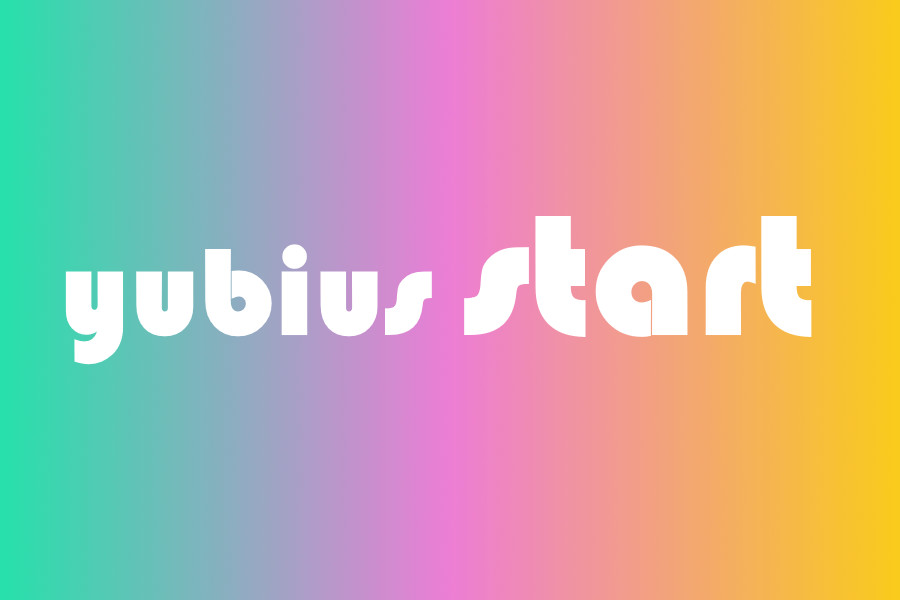
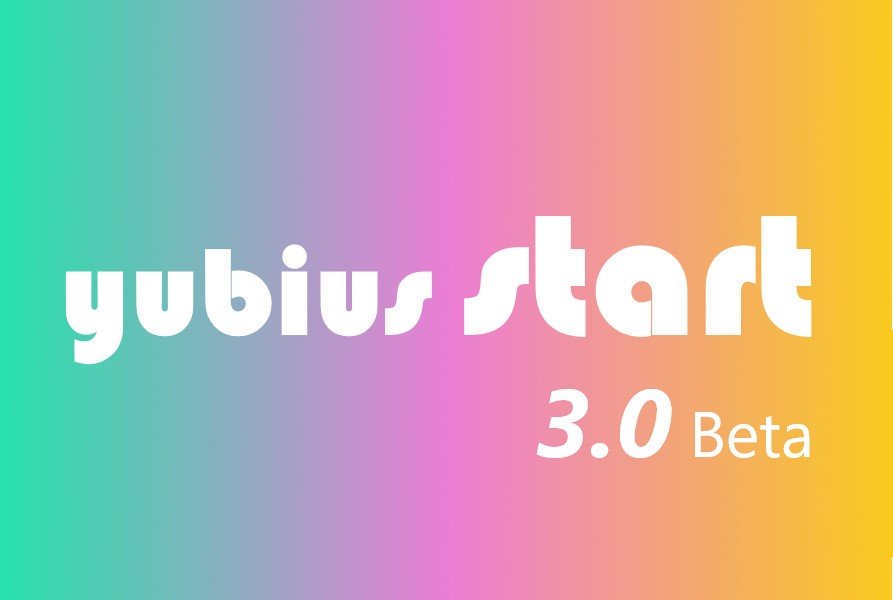
Add files via upload

diff --git a/mobile.html b/mobile.html
@@ -3,7 +3,7 @@
 <head>
     <meta charset="UTF-8">
     <meta name="viewport" content="width=device-width, initial-scale=1.0">
-    <title>奇趣起始页</title>
+    <title>布斯起始页</title>
     <link rel="icon" href="static/icon.png" sizes="192x192"/>
     <link rel="stylesheet" href="https://cdn.jsdelivr.net/gh/Dreamer-Paul/Kico-Style/kico.css">
     <link rel="stylesheet" href="https://at.alicdn.com/t/font_1809713_rg58vy6eb7.css">
@@ -37,29 +37,30 @@
     <section class="navi-background"></section>
 </main>
 <footer>
-    <p>© 2020 <a href="https://paul.ren" target="_blank">奇趣保罗</a> | <a href="https://github.com/Dreamer-Paul/KStart" target="_blank">参与维护</a></p>
+    <p>© 2021 <a href="https://space.bilibili.com/18853927" target="_blank">是鱼布斯啊</a>  <a href="https://jq.qq.com/?_wv=1027&k=rU9gu8El" target="_blank">加入QQ群</a></p>
 </footer>
 <window>
     <section class="the-window updated">
         <div class="window-head">
             <button>×</button>
-            <h3>导航更新啦</h3>
+            <h3>厚积薄发，焕然一新</h3>
         </div>
         <div class="window-body">
             <article>
-                <p>感谢你的使用和支持！在这个版本中，我首次增加了大版本更新机制，每次的更新内容都将会在这里告诉大家，哈哈！</p>
+                <p>感谢你的使用和支持！在这个版本中，我们适配了不同尺寸的设备，哈哈！</p>
                 <blockquote>PS：只有首次打开最新版本才会出现这样的提示哦！</blockquote>
                 <h3>本次更新：</h3>
                 <ul>
-                    <li>增加站点及图标，图标变得更大了！</li>
-                    <li>完善必应壁纸适应后变更字体颜色的设定！</li>
+                    <li>手机访问自动跳转到移动版！</li>
+                    <li>支持必应每日壁纸！</li>
                     <li>所有链接均以新标签的方式打开！</li>
                     <li>增加了如你所看到的更新提示！</li>
                 </ul>
                 <h3>更新预告：</h3>
                 <ul>
-                    <li>更舒适的自定义站点列表体验</li>
-                    <li>可供设定你的壁纸（本地或外链）</li>
+                    <li>电脑版即将默认访问此界面</li>
+                    <li>天气查看小组件</li>
+                    <li>与电脑版相同的欲言</li>
                 </ul>
             </article>
         </div>
@@ -72,10 +73,8 @@
         <div class="window-body">
             <article>
                 <p><img src="static/about.jpg" alt="关于奇趣起始页"></p>
-                <p>欢迎使用奇趣起始页！本项目建设于 2020/5/9，是一个主打社区形式的开源项目。</p>
-                <p>它的使用方式很简单，只需要在 <a href="https://github.com/Dreamer-Paul/KStart-Sites" target="_blank">本项目的仓库</a> 上提交 PR，即可创造一个属于自己的导航页面。访问它只需要一个 URL 后缀即可直达，无需注册和登录，非常方便易用。</p>
-                <p>现有的类似站点已经很多了，为什么我仍然选择编写了这个项目？这是因为它们都是闭源的私人项目，只有作者本人才可以进行维护。</p>
-                <p>与此同时，这些站点的导航项大多已经预设。想要修改它们，要么需要注册后修改，要么就干脆不给改，个人觉得略显鸡肋。如果你更换了电脑，不就需要重新登录了吗？</p>
+                <p>欢迎使用布斯起始页！本项目建设于 2020/2/21，是一个基于开源项目维护的网站。</p>
+                <p>您可以请求我们添加您的个人首页，或公共站点 <a href="https://jq.qq.com/?_wv=1027&k=rU9gu8El" target="_blank">本项目的QQ群</a> 上提交联系群主提交</p>
                 <p>介于采用 GitHub 托管的形式，本站属于“无后端”项目，一些可以提升用户体验的功能需要借助后端才能完成，我暂时没有去实现它。</p>
                 <h3>类似项目：</h3>
                 <ul>
@@ -87,6 +86,7 @@
                     <li><a href="https://www.iconfont.cn" target="_blank" rel="nofollow">IconFont</a></li>
                     <li><a href="https://github.com/Dreamer-Paul/Kico-Style" target="_blank" rel="nofollow">Kico Style</a></li>
                     <li><a href="https://fontawesome.com" target="_blank" rel="nofollow">FontAwesome</a></li>
+                    <li><a href="https://github.com/Dreamer-Paul/KStart" target="_blank" rel="nofollow">奇趣保罗的开源项目</a></li>
                 </ul>
             </article>
         </div>

diff --git a/mobile.js b/mobile.js
@@ -1,1 +1,2 @@
-var sUserAgent = navigator.userAgent.toLowerCase(); var bIsIpad = sUserAgent.match(/ipad/i) == "ipad"; var bIsIphoneOs = sUserAgent.match(/iphone os/i) == "iphone os"; var bIsMidp = sUserAgent.match(/midp/i) == "midp"; var bIsUc7 = sUserAgent.match(/rv:1.2.3.4/i) == "rv:1.2.3.4"; var bIsUc = sUserAgent.match(/ucweb/i) == "ucweb"; var bIsAndroid = sUserAgent.match(/android/i) == "android"; var bIsCE = sUserAgent.match(/windows ce/i) == "windows ce"; var bIsWM = sUserAgent.match(/windows mobile/i) == "windows mobile"; if (bIsIpad || var sUserAgent = navigator.userAgent.toLowerCase(); var bIsIpad = sUserAgent.match(/ipad/i) == "ipad"; var bIsIphoneOs = sUserAgent.match(/iphone os/i) == "iphone os"; var bIsMidp = sUserAgent.match(/midp/i) == "midp"; var bIsUc7 = sUserAgent.match(/rv:1.2.3.4/i) == "rv:1.2.3.4"; var bIsUc = sUserAgent.match(/ucweb/i) == "ucweb"; var bIsAndroid = sUserAgent.match(/android/i) == "android"; var bIsCE = sUserAgent.match(/windows ce/i) == "windows ce"; var bIsWM = sUserAgent.match(/windows mobile/i) == "windows mobile"; if (bIsIpad || bIsIphoneOs || bIsMidp || bIsUc7 || bIsUc || bIsAndroid || bIsCE || bIsWM) {window.location.href="/mobile.php" ;}
+var ua=navigator.userAgent;
+if(ua.indexOf("Android") != -1||ua.indexOf("iPhone") != -1||ua.indexOf("iPad") != -1){window.location.href="/mobile"}

diff --git a/1index.html b/1index.html
@@ -168,9 +168,9 @@
             <a class="card-dwg-href" href="https://yubiusgithubio.azureedge.net/mobile">
                 <div class="card-dwg-href-div">
                     <div class="card-dwg-href-img" style="background-image: url('QCXY.png');"></div>
-                    <div class="card-dwg-href-name">测试版本
+                    <div class="card-dwg-href-name">内测版
                     </div>
-                    <div class="card-dwg-href-abstract" title="简洁模式">全新灵动UI
+                    <div class="card-dwg-href-abstract" title="内测版">灵动UI3.0
                     </div>
                 </div>
             </a>
@@ -203,7 +203,6 @@
             </a>
             <center div class="bingwidget" data-type="covid19" data-market="zh-cn" data-language="zh-cn">
         </div>
-        <script src="//www.bing.com/widget/bootstrap.answer.js" async=""></script>
         </center>
     </div>
     </div>

diff --git a/static/main.css b/static/main.css
@@ -6,7 +6,7 @@
 
 一个简洁不失细节的起始页
 
-本代码为奇趣保罗原创，并遵守 MIT 开源协议。欢迎访问我的博客：https://paugram.com
+本代码为奇趣保罗原创，是鱼布斯啊参与维护
 
 ---- */
 

diff --git a/style.css b/style.css
@@ -4,7 +4,7 @@ html {
   width: 100%;
 }
 body {
-  background: url(/bing.php);
+  background: url(/bj.jpg);
   background-size: cover;
   font-family: Microsoft Yahei, Microsoft Yahei;
 }
